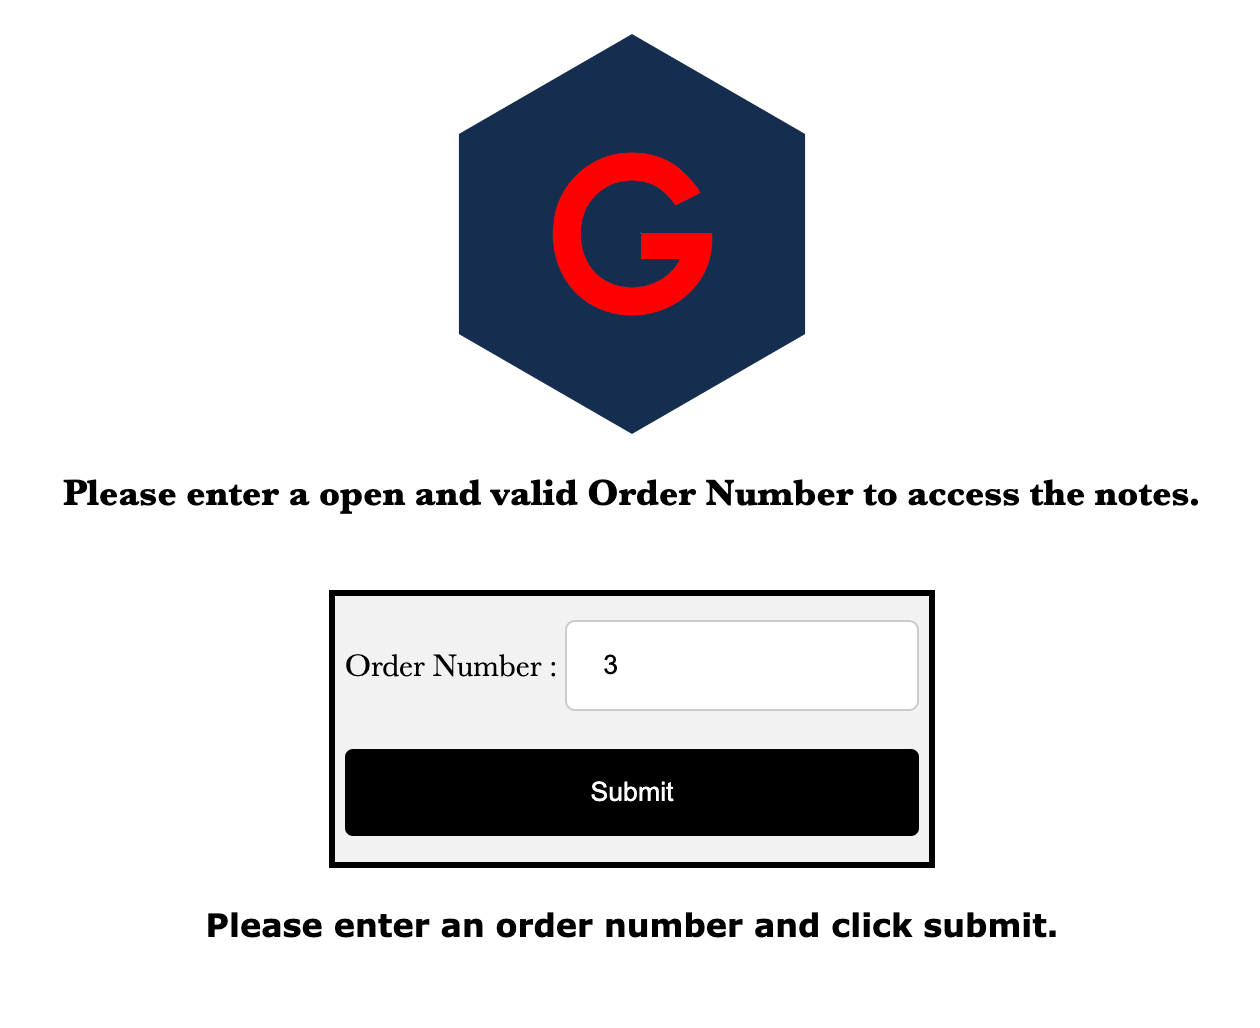
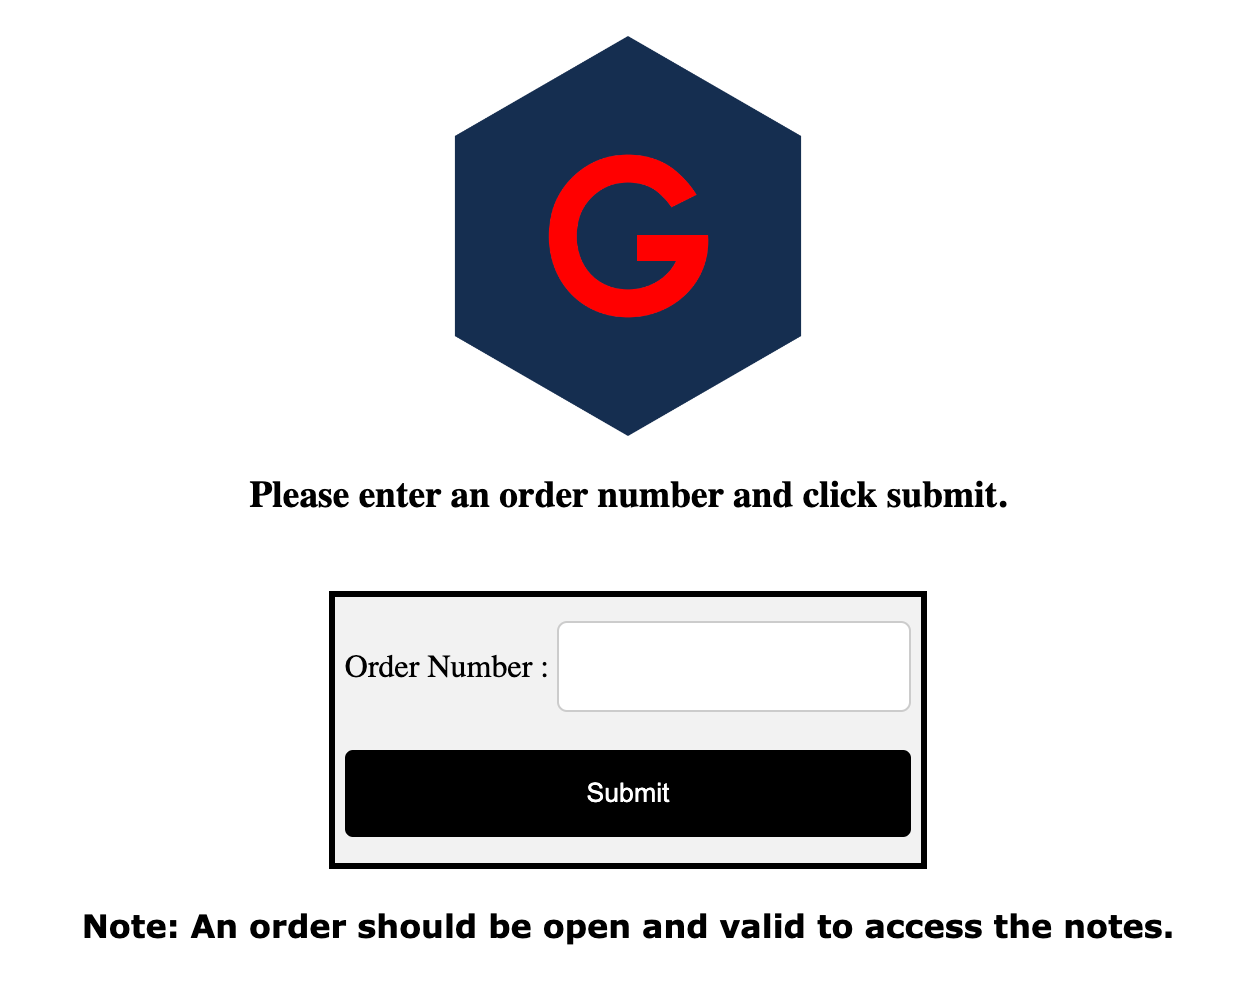
Update demo image

diff --git a/access.php b/access.php
@@ -111,7 +111,7 @@
 		$order = $_POST["order"] ?? '';
 
 		if ($order == '') {
-			echo "<br><b><center><td align=\"center\"><font face='Verdana, Arial, Helvetica' size='3' color='black'>An order should be open and valid to access the notes.</font></span></td></center></b>";
+			echo "<br><b><center><td align=\"center\"><font face='Verdana, Arial, Helvetica' size='3' color='black'>Note: An order should be open and valid to access the notes.</font></span></td></center></b>";
 		} else {
 			if (!is_numeric($order)) {
 				echo "<br><b><center><td align=\"center\"><font face='Verdana, Arial, Helvetica' size='3' color='red'>Invalid characters entered, please enter numeric values only.</font></span></td></center></b>";
